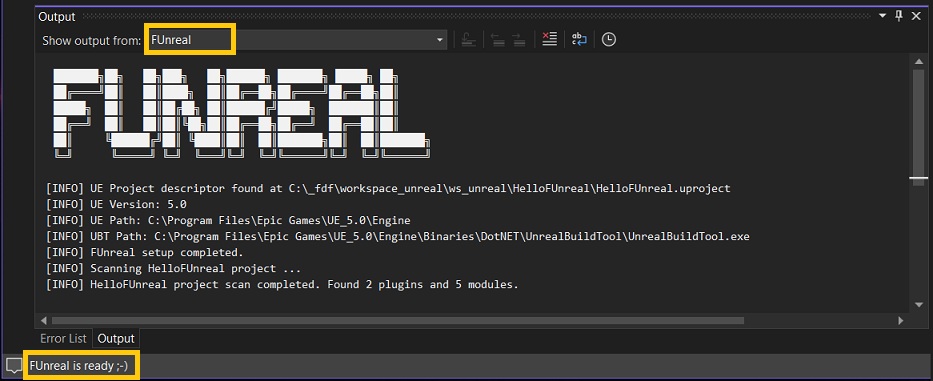
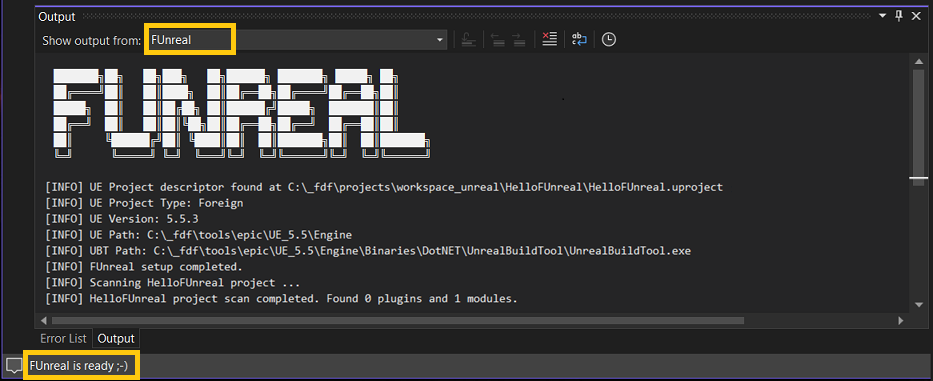
#40 update doc

Changed region(s): [[0.0311, 0.4619, 0.8081, 0.8084]]

diff --git a/FUnreal/overview.md b/FUnreal/overview.md
@@ -15,7 +15,7 @@ Futhermore `FUnreal` will try to maintain consistent your project, updating UE d
 
 # Features
 `FUnreal` currently supports:
-* UE: 4.x and 5.x Game C++ Projects
+* UE: 4.x and 5.x Game C++ Projects (Native and Foreign)
 * IDE: Visual Studio 2022 (aka v17.x)
 * OS: Windows
 
